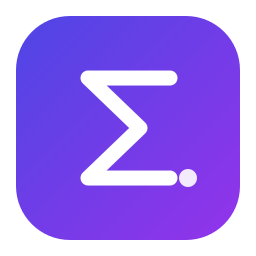
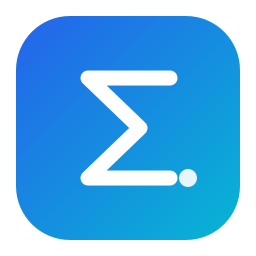
refactor(brand): rinomina il progetto in XMap Studio
- nome prodotto, APP_ID, crate/binario e lib: xmap-studio / xmap_studio_lib
- AppImage XMap_Studio, .desktop, cartella backup e cache in xmap-studio
- safety.rs: aggiunta l'esclusione di xmap-studio mantenendo i pattern legacy,
  così vecchie AppImage non vengono scambiate per XMind
- icona: palette ritoccata (simbolo invariato)
- docs aggiornate; prodotto GitLab rinominato in xmap-studio

Nessun cambio di comportamento: il formato .xmind resta invariato.

diff --git a/src-tauri/src/safety.rs b/src-tauri/src/safety.rs
@@ -47,11 +47,15 @@ pub fn xmind_processes() -> Vec<String> {
 fn is_xmind_invocation(cmdline: &str) -> bool {
     // La nostra app non conta: né il binario, né il bundle AppImage, né la
     // cartella di progetto. Il confronto è case-insensitive perché il percorso
-    // può contenere "xmind-LaTeX" o "XMind Equation Studio".
+    // può contenere "xmap-studio", "xmind-LaTeX" o i vecchi nomi.
     let lower = cmdline.to_ascii_lowercase();
-    if lower.contains("xmind-equation-studio")
-        || lower.contains("xmind-latex")
+    if lower.contains("xmap-studio")
+        || lower.contains("xmap studio")
+        // Nomi precedenti: un'AppImage o un branch vecchio non deve essere
+        // scambiato per XMind.
+        || lower.contains("xmind-equation-studio")
         || lower.contains("xmind equation studio")
+        || lower.contains("xmind-latex")
         || lower.contains("appimage_extracted")
     {
         return false;
@@ -89,9 +93,12 @@ mod tests {
 
     #[test]
     fn self_is_not_flagged() {
-        // Il binario in test contiene "xmind-equation-studio" nel path.
-        let cmd = "/home/u/progetti/xmind-LaTeX/src-tauri/target/debug/xmind-equation-studio";
+        // Il binario in test contiene "xmap-studio" nel path.
+        let cmd = "/home/u/progetti/xmap-studio/src-tauri/target/debug/xmap-studio";
         assert!(!is_xmind_invocation(cmd));
+        // Vecchio nome: resta escluso.
+        let old = "/home/u/progetti/xmind-LaTeX/src-tauri/target/debug/xmind-equation-studio";
+        assert!(!is_xmind_invocation(old));
     }
 
     #[test]
@@ -112,7 +119,11 @@ mod tests {
     #[test]
     fn our_own_appimage_is_not_xmind() {
         // Falso positivo reale: il percorso, spezzato sugli spazi, produce il
-        // token ".../appimage/XMind" che NON deve essere scambiato per XMind.
+        // token ".../appimage/XMap" che NON deve essere scambiato per XMind.
+        assert!(!is_xmind_invocation(
+            "/home/joel/progetti/xmap-studio/src-tauri/target/release/bundle/appimage/XMap Studio_0.1.0_amd64.AppImage"
+        ));
+        // Vecchio nome: stesso falso positivo da evitare.
         assert!(!is_xmind_invocation(
             "/home/joel/progetti/xmind-LaTeX/src-tauri/target/release/bundle/appimage/XMind Equation Studio_0.1.0_amd64.AppImage"
         ));

diff --git a/xtask/src/main.rs b/xtask/src/main.rs
@@ -9,8 +9,8 @@ use std::fs;
 use std::path::{Path, PathBuf};
 use std::process::Command;
 
-const APP_ID: &str = "org.joel.xmind_equation_studio";
-const BIN: &str = "xmind-equation-studio";
+const APP_ID: &str = "org.joel.xmap_studio";
+const BIN: &str = "xmap-studio";
 const APPIMAGE_TOOL_URL: &str =
     "https://github.com/AppImage/appimagetool/releases/download/continuous/appimagetool-x86_64.AppImage";
 
@@ -79,8 +79,8 @@ fn appimage() {
     let desktop = format!(
         "[Desktop Entry]\n\
          Type=Application\n\
-         Name=XMind Equation Studio\n\
-         Comment=Editor di equazioni LaTeX per mappe XMind\n\
+         Name=XMap Studio\n\
+         Comment=Companion desktop per mappe XMind: equazioni LaTeX ed editing avanzato\n\
          Exec={BIN}\n\
          Icon={APP_ID}\n\
          Categories=Office;\n\
@@ -93,7 +93,7 @@ fn appimage() {
     let tool = ensure_appimagetool();
     let dist = root.join("dist");
     fs::create_dir_all(&dist).unwrap();
-    let output = dist.join(format!("XMind_Equation_Studio-{version}-x86_64.AppImage"));
+    let output = dist.join(format!("XMap_Studio-{version}-x86_64.AppImage"));
     let _ = fs::remove_file(&output);
 
     println!("==> appimagetool");
@@ -122,7 +122,7 @@ fn ensure_appimagetool() -> PathBuf {
         .map(PathBuf::from)
         .or_else(|| env::var_os("HOME").map(|h| PathBuf::from(h).join(".cache")))
         .unwrap_or_else(env::temp_dir)
-        .join("xmind-equation-studio");
+        .join("xmap-studio");
     fs::create_dir_all(&cache).expect("cache appimagetool");
     let tool = cache.join("appimagetool-x86_64.AppImage");
     if tool.is_file() {

diff --git a/src-tauri/src/gui.rs b/src-tauri/src/gui.rs
@@ -170,13 +170,13 @@ fn build_ui(app: &adw::Application) {
     // ---------------------------------------------------------------- finestra
     let window = adw::ApplicationWindow::builder()
         .application(app)
-        .title("XMind Equation Studio")
+        .title("XMap Studio")
         .default_width(1240)
         .default_height(820)
         .build();
 
     let header = adw::HeaderBar::new();
-    let header_title = adw::WindowTitle::new("XMind Equation Studio", "Nessun file aperto");
+    let header_title = adw::WindowTitle::new("XMap Studio", "Nessun file aperto");
     header.set_title_widget(Some(&header_title));
 
     let open_btn = gtk::Button::from_icon_name("document-open-symbolic");
@@ -1778,7 +1778,7 @@ fn open_path(ui: &Rc<Ui>, state: &Rc<State>, path: PathBuf) {
 fn choose_save_as(ui: &Rc<Ui>, state: &Rc<State>) {
     let dialog = gtk::FileDialog::builder()
         .title("Salva con nome")
-        .initial_name("mappa.equation-studio.xmind")
+        .initial_name("mappa.xmap-studio.xmind")
         .modal(true)
         .build();
     let filter = gtk::FileFilter::new();
@@ -1889,7 +1889,7 @@ fn toggle_theme(ui: &Rc<Ui>, state: &Rc<State>) {
 fn show_about(ui: &Ui) {
     let dialog = adw::MessageDialog::builder()
         .transient_for(&ui.window)
-        .heading("XMind Equation Studio")
+        .heading("XMap Studio")
         .body(format!(
             "Versione {}\n\nEditor nativo (GTK4) per equazioni LaTeX in formato \
              XMind. Rendering MathJax identico a XMind, scrittura atomica e validata.",

diff --git a/src-tauri/tests/e2e_real_map.rs b/src-tauri/tests/e2e_real_map.rs
@@ -4,12 +4,12 @@
 //! resta verde su altre macchine. Sovrascrivibile con `XMIND_TEST_MAP`.
 
 use std::path::{Path, PathBuf};
-use xmind_equation_studio_lib::archive::{read_archive, sha256_hex};
-use xmind_equation_studio_lib::equation::{apply_equation, TitleMode};
-use xmind_equation_studio_lib::mathjax::Renderer;
-use xmind_equation_studio_lib::model::{self, Sheet};
-use xmind_equation_studio_lib::state::OpenWorkbook;
-use xmind_equation_studio_lib::validate::validate_archive_bytes;
+use xmap_studio_lib::archive::{read_archive, sha256_hex};
+use xmap_studio_lib::equation::{apply_equation, TitleMode};
+use xmap_studio_lib::mathjax::Renderer;
+use xmap_studio_lib::model::{self, Sheet};
+use xmap_studio_lib::state::OpenWorkbook;
+use xmap_studio_lib::validate::validate_archive_bytes;
 
 fn test_map() -> Option<PathBuf> {
     if let Ok(p) = std::env::var("XMIND_TEST_MAP") {

diff --git a/src-tauri/src/renderer_assets.rs b/src-tauri/src/renderer_assets.rs
@@ -14,7 +14,7 @@ static ARCHIVE: &[u8] = include_bytes!(concat!(env!("OUT_DIR"), "/renderer.tar.g
 /// directory, pronta per essere passata a `Renderer::discover`.
 pub fn ensure_extracted() -> Result<PathBuf> {
     let base = cache_root()
-        .join("xmind-equation-studio")
+        .join("xmap-studio")
         .join("renderer")
         // la lunghezza dell'archivio invalida la cache quando il renderer cambia
         .join(format!("{}-{}", env!("CARGO_PKG_VERSION"), ARCHIVE.len()));
@@ -24,7 +24,7 @@ pub fn ensure_extracted() -> Result<PathBuf> {
     }
 
     let tmp = cache_root()
-        .join("xmind-equation-studio")
+        .join("xmap-studio")
         .join(format!("renderer.tmp-{}", std::process::id()));
     let _ = std::fs::remove_dir_all(&tmp);
     std::fs::create_dir_all(&tmp).context("creazione cache renderer")?;

diff --git a/src-tauri/src/mathjax.rs b/src-tauri/src/mathjax.rs
@@ -48,12 +48,12 @@ impl Renderer {
             }
         }
         candidates.push(PathBuf::from(env!("CARGO_MANIFEST_DIR")).join("resources/renderer"));
-        // Bundle installato: accanto all'eseguibile o in share/xmind-equation-studio.
+        // Bundle installato: accanto all'eseguibile o in share/xmap-studio.
         if let Ok(exe) = std::env::current_exe() {
             if let Some(dir) = exe.parent() {
                 candidates.push(dir.join("renderer"));
                 candidates.push(dir.join("resources/renderer"));
-                candidates.push(dir.join("../share/xmind-equation-studio/renderer"));
+                candidates.push(dir.join("../share/xmap-studio/renderer"));
             }
         }
         if let Some(rd) = resource_dir {

diff --git a/src-tauri/src/archive.rs b/src-tauri/src/archive.rs
@@ -125,7 +125,7 @@ pub struct WriteReport {
 const MAX_BACKUPS: usize = 5;
 
 /// Cartella nascosta dei backup, accanto al file sorgente.
-const BACKUP_DIR: &str = ".xmind-equation-studio/backups";
+const BACKUP_DIR: &str = ".xmap-studio/backups";
 
 fn timestamp() -> String {
     chrono::Local::now().format("%Y%m%d-%H%M%S").to_string()
@@ -283,7 +283,7 @@ mod tests {
             .parent()
             .unwrap()
             .to_string_lossy()
-            .contains(".xmind-equation-studio"));
+            .contains(".xmap-studio"));
         // nessun temp residuo
         let leftovers: Vec<_> = fs::read_dir(dir.path())
             .unwrap()

diff --git a/src-tauri/src/lib.rs b/src-tauri/src/lib.rs
@@ -1,4 +1,4 @@
-//! XMind Equation Studio — app desktop nativa (GTK4 + libadwaita).
+//! XMap Studio — app desktop nativa (GTK4 + libadwaita).
 //!
 //! Apre un `.xmind`, mostra i topic come blocchi, applica/rimuove equazioni
 //! MathJax native e salva in modo atomico e validato, senza mai distruggere i
@@ -19,7 +19,7 @@ pub mod state;
 pub mod validate;
 
 /// Application ID GApplication (deve essere un nome DNS invertito valido).
-pub const APP_ID: &str = "org.joel.xmind_equation_studio";
+pub const APP_ID: &str = "org.joel.xmap_studio";
 
 pub fn run() -> gtk::glib::ExitCode {
     gui::run()

diff --git a/src-tauri/examples/inject.rs b/src-tauri/examples/inject.rs
@@ -5,10 +5,10 @@
 //! Utile per generare un file di prova da aprire in XMind e per confrontarsi
 //! con l'oracolo Python.
 
-use xmind_equation_studio_lib::equation::{apply_equation, TitleMode};
-use xmind_equation_studio_lib::mathjax::Renderer;
-use xmind_equation_studio_lib::model;
-use xmind_equation_studio_lib::state::OpenWorkbook;
+use xmap_studio_lib::equation::{apply_equation, TitleMode};
+use xmap_studio_lib::mathjax::Renderer;
+use xmap_studio_lib::model;
+use xmap_studio_lib::state::OpenWorkbook;
 
 fn main() {
     let args: Vec<String> = std::env::args().collect();

diff --git a/src-tauri/src/state.rs b/src-tauri/src/state.rs
@@ -221,7 +221,7 @@ impl OpenWorkbook {
                 CODE_VALIDATION,
                 format!(
                     "ATTENZIONE: il file scritto non è valido ({e:#}). \
-                     Recupera un backup dalla cartella .xmind-equation-studio/backups/."
+                     Recupera un backup dalla cartella .xmap-studio/backups/."
                 ),
             )
         })?;

diff --git a/src-tauri/src/main.rs b/src-tauri/src/main.rs
@@ -1,3 +1,3 @@
 fn main() -> gtk::glib::ExitCode {
-    xmind_equation_studio_lib::run()
+    xmap_studio_lib::run()
 }

diff --git a/docs/PRODUCT.md b/docs/PRODUCT.md
@@ -27,7 +27,7 @@ webview. La promessa è **offline, nativa, sicura, gratuita**.
 | Elemento | Da | A |
 |---|---|---|
 | Nome prodotto | XMind Equation Studio | **XMap Studio** |
-| Repo / cartella | `xmind-LaTeX` | invariata (opzionale) |
+| Repo / cartella | `xmind-LaTeX` | repo GitLab rinominato in `xmap-studio`; cartella locale invariata |
 | `APP_ID` | `org.joel.xmind_equation_studio` | `org.joel.xmap_studio` |
 | Crate / binario | `xmind-equation-studio` | `xmap-studio` |
 | Lib | `xmind_equation_studio_lib` | `xmap_studio_lib` |
@@ -36,20 +36,21 @@ webview. La promessa è **offline, nativa, sicura, gratuita**.
 | Cartella backup | `.xmind-equation-studio/` | `.xmap-studio/` |
 | Cache renderer/appimagetool | `~/.cache/xmind-equation-studio/` | `~/.cache/xmap-studio/` |
 
+> **Stato:** attuato in Fase 0 (branch `refactor/xmap-studio-rebrand`).
+
 Note di attuazione:
 
 - **`safety.rs`**: il rilevamento dei processi XMind *non va indebolito*. Il
-  filtro che esclude la nostra app oggi cerca `xmind-equation-studio` e
-  `xmind-latex`; va aggiornato con `xmap-studio` **mantenendo** i pattern
-  vecchi, così un'AppImage/branch precedente non viene scambiata per XMind.
-  Aggiornare i test in `safety.rs:92` e `safety.rs:117`.
+  filtro che esclude la nostra app ora cerca `xmap-studio` **mantenendo** i
+  pattern vecchi (`xmind-equation-studio`, `xmind-latex`), così un'AppImage o
+  un branch precedente non viene scambiato per XMind.
 - **Compatibilità di percorso**: i vecchi backup in
   `.xmind-equation-studio/` non vanno cancellati; il nuovo nome convive, o si
   fa migrazione/fallback in lettura.
 - **Trademark**: usiamo "compatibile con XMind" come descrizione, mai il
   marchio nel nome. `XMap` è un nome proprio.
-- **Icona**: `assets/icon.svg` + PNG 256/512 vanno ridisegnati (richiede
-  decisione grafica; nessun impatto tecnico).
+- **Icona**: `assets/icon.svg` + PNG 256/512, ritoccati nella palette; simbolo
+  invariato, nessun impatto tecnico.
 
 ## 3. Inventario: cosa XMind Free blocca
 
@@ -127,8 +128,9 @@ non toccano lo schema: leggiamo il modello già in memoria.
 ### Fase 0 — Rebranding (nessun cambio di comportamento)
 Rinomina token (§2), aggiorna icona, docs (`README`, `AGENTS`, `docs/*`),
 `.desktop`, AppImage, test string. `cargo fmt && clippy && test` verdi.
-**Criterio di done**: nessun riferimento a "Equation Studio" nel codice
-prodotto; i file `.xmind` restano byte-compatibili.
+**Criterio di done**: nessun riferimento all'ex brand nel codice, salvo le
+esclusioni legacy in `safety.rs` (da mantenere) e la mappa storica in questo
+documento; i file `.xmind` restano byte-compatibili.
 
 ### Fase 0.5 — Verifica dei lock
 Su XMind 26.03.04129 Free: provare ogni feature "da verificare" e ispezionare
@@ -176,22 +178,19 @@ l'arrivo di nuove feature:
 | Audio/cifratura | Complessità, dipendenze | Scope ridotto / fuori scope |
 | Vecchi backup/percorsi | Perdita storico utente | Fallback in lettura, nessuna cancellazione |
 
-## 7. Decisioni aperte (servono prima del codice)
+## 7. Decisioni prese
 
-1. **Nome definitivo**: `XMap Studio` confermato? In alternativa `Mappa
-   Studio` se si vuole zero assonanza col marchio.
-2. **Repo**: rinominare `xmind-LaTeX` (e il remote GitLab) o lasciarlo?
-3. **Icona**: la ridisegno io via SVG o fornirai un asset?
-4. **Ambito Fase 1**: quali tra Note / Label / Marker / Href sono davvero
-   importanti per il tuo uso quotidiano?
-5. **Export**: Markdown o OPML per primo? Serve anche l'import?
-6. **Priorità**: confermi l'ordine di roadmap o sposti qualche fase?
+1. **Nome**: `XMap Studio`.
+2. **Repo**: rinominato su GitLab in `xmap-studio`; cartella locale `xmind-LaTeX`
+   invariata.
+3. **Icona**: ritocco della palette, simbolo attuale invariato.
+4. **Ambito Fase 1 / export / ordine di roadmap**: uniche scelte ancora aperte,
+   da definire prima di iniziare la fase (priorità in §3).
 
 ## 8. Come si procede
 
-1. Ok su questo documento (e risposte a §7).
-2. Fase 0.5 di verifica su XMind Free reale.
-3. Fase 0 (rebranding) su branch `refactor/xmap-studio-rebranding`, MR verso
+1. **Fase 0 — rebranding**: su branch `refactor/xmap-studio-rebrand`, MR verso
    `main`, senza mescolare feature.
-4. Le fasi successive, ognuna su branch `feat/<slug>` con test e verifica in
-   XMind prima della MR.
+2. **Fase 0.5 — verifica dei lock** su XMind Free reale (§3).
+3. **Fasi successive**: ognuna su branch dedicato (`feat/<slug>`), con MR verso
+   `main`, test e verifica in XMind prima dell'unione.
